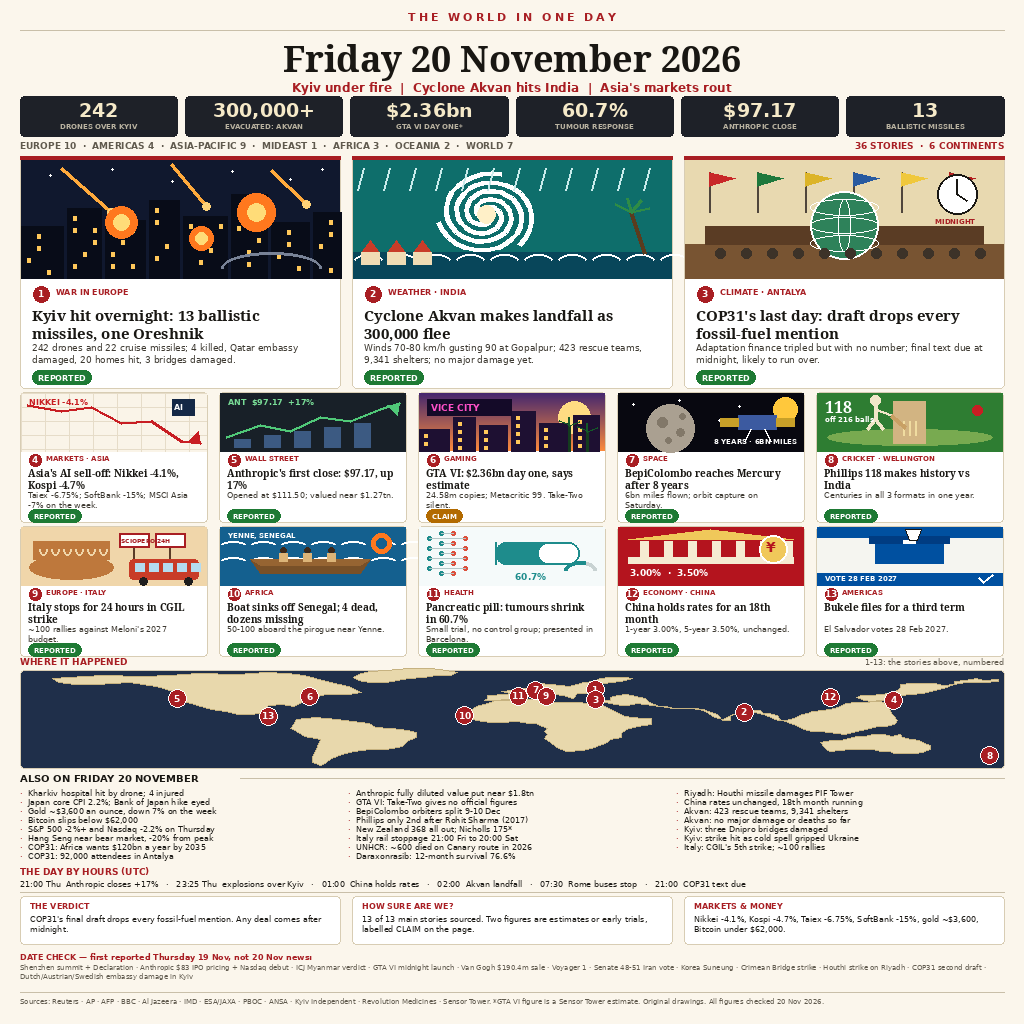
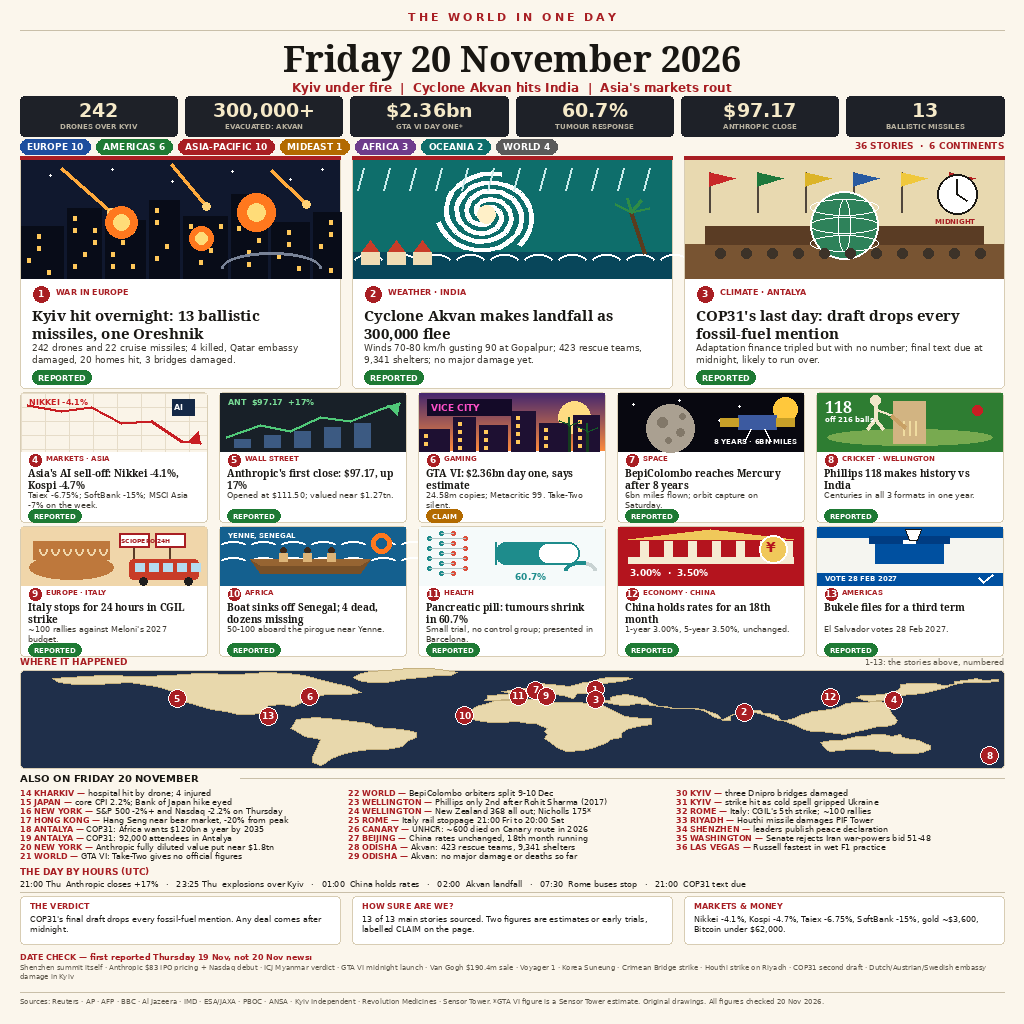
v2: numbered briefs with place labels, coloured region pills, Shenzhen + Senate + F1 briefs

diff --git a/render.py b/render.py
@@ -145,9 +145,18 @@ def stat_strip(d):
         d.text((x + (bw - nw) / 2, y + 3), num, font=f_n, fill=CREAM)
         lw = d.textlength(lab, font=f_l)
         d.text((x + (bw - lw) / 2, y + 26), lab, font=f_l, fill=(185, 178, 160))
-    d.text((M, 140), "EUROPE 10  ·  AMERICAS 4  ·  ASIA-PACIFIC 9  ·  MIDEAST 1  ·  "
-                     "AFRICA 3  ·  OCEANIA 2  ·  WORLD 7",
-           font=F(SANS_B, 9), fill=MUTED)
+    regions = [("EUROPE", 10, (29, 78, 158)), ("AMERICAS", 6, (30, 122, 52)),
+               ("ASIA-PACIFIC", 10, (168, 30, 35)), ("MIDEAST", 1, (178, 106, 0)),
+               ("AFRICA", 3, (110, 60, 140)), ("OCEANIA", 2, (14, 110, 107)),
+               ("WORLD", 4, (90, 90, 90))]
+    x = M
+    f_r = F(SANS_B, 9)
+    for name, cnt, col in regions:
+        lab = f"{name} {cnt}"
+        w = d.textlength(lab, font=f_r) + 14
+        d.rounded_rectangle([x, 139, x + w, 139 + 15], radius=7, fill=col)
+        d.text((x + 7, 141), lab, font=f_r, fill=(255, 255, 255))
+        x += w + 6
     tag = "36 STORIES  ·  6 CONTINENTS"
     d.text((W - M - d.textlength(tag, font=F(SANS_B, 9)), 140), tag,
            font=F(SANS_B, 9), fill=RED)
@@ -691,30 +700,30 @@ def world_map(d):
 
 
 # ------------------------------------------------------- also on, timeline
-BRIEFS = [
-    "Kharkiv hospital hit by drone; 4 injured",
-    "Japan core CPI 2.2%; Bank of Japan hike eyed",
-    "Gold ~$3,600 an ounce, down 7% on the week",
-    "Bitcoin slips below $62,000",
-    "S&P 500 -2%+ and Nasdaq -2.2% on Thursday",
-    "Hang Seng near bear market, -20% from peak",
-    "COP31: Africa wants $120bn a year by 2035",
-    "COP31: 92,000 attendees in Antalya",
-    "Anthropic fully diluted value put near $1.8tn",
-    "GTA VI: Take-Two gives no official figures",
-    "BepiColombo orbiters split 9-10 Dec",
-    "Phillips only 2nd after Rohit Sharma (2017)",
-    "New Zealand 368 all out; Nicholls 175*",
-    "Italy rail stoppage 21:00 Fri to 20:00 Sat",
-    "UNHCR: ~600 died on Canary route in 2026",
-    "Daraxonrasib: 12-month survival 76.6%",
-    "Riyadh: Houthi missile damages PIF Tower",
-    "China rates unchanged, 18th month running",
-    "Akvan: 423 rescue teams, 9,341 shelters",
-    "Akvan: no major damage or deaths so far",
-    "Kyiv: three Dnipro bridges damaged",
-    "Kyiv: strike hit as cold spell gripped Ukraine",
-    "Italy: CGIL's 5th strike; ~100 rallies",
+BRIEFS = [  # (place, one-line brief) — numbered 14-36 on the page
+    ("KHARKIV", "hospital hit by drone; 4 injured"),
+    ("JAPAN", "core CPI 2.2%; Bank of Japan hike eyed"),
+    ("NEW YORK", "S&P 500 -2%+ and Nasdaq -2.2% on Thursday"),
+    ("HONG KONG", "Hang Seng near bear market, -20% from peak"),
+    ("ANTALYA", "COP31: Africa wants $120bn a year by 2035"),
+    ("ANTALYA", "COP31: 92,000 attendees in Antalya"),
+    ("NEW YORK", "Anthropic fully diluted value put near $1.8tn"),
+    ("WORLD", "GTA VI: Take-Two gives no official figures"),
+    ("WORLD", "BepiColombo orbiters split 9-10 Dec"),
+    ("WELLINGTON", "Phillips only 2nd after Rohit Sharma (2017)"),
+    ("WELLINGTON", "New Zealand 368 all out; Nicholls 175*"),
+    ("ROME", "Italy rail stoppage 21:00 Fri to 20:00 Sat"),
+    ("CANARY", "UNHCR: ~600 died on Canary route in 2026"),
+    ("BEIJING", "China rates unchanged, 18th month running"),
+    ("ODISHA", "Akvan: 423 rescue teams, 9,341 shelters"),
+    ("ODISHA", "Akvan: no major damage or deaths so far"),
+    ("KYIV", "three Dnipro bridges damaged"),
+    ("KYIV", "strike hit as cold spell gripped Ukraine"),
+    ("ROME", "Italy: CGIL's 5th strike; ~100 rallies"),
+    ("RIYADH", "Houthi missile damages PIF Tower"),
+    ("SHENZHEN", "leaders publish peace declaration"),
+    ("WASHINGTON", "Senate rejects Iran war-powers bid 51-48"),
+    ("LAS VEGAS", "Russell fastest in wet F1 practice"),
 ]
 
 
@@ -723,13 +732,18 @@ def also_on(d):
     d.text((M, y), "ALSO ON FRIDAY 20 NOVEMBER", font=F(SANS_B, 10), fill=INK)
     d.line([(M + 220, y + 6), (W - M, y + 6)], fill=RULE, width=1)
     f = F(SANS, 8)
+    fb = F(SANS_B, 8)
     cols = [BRIEFS[i:i + 8] for i in range(0, len(BRIEFS), 8)]
     for ci, col in enumerate(cols):
         x = M + ci * 328
-        for ri, item in enumerate(col):
+        for ri, (place, item) in enumerate(col):
+            n = 14 + ci * 8 + ri
             yy = y + 16 + ri * 9
-            d.text((x, yy), "·", font=f, fill=RED)
-            d.text((x + 8, yy), fit_line(d, item, f, 312), font=f, fill=INK)
+            head = f"{n} {place} — "
+            d.text((x, yy), head, font=fb, fill=RED)
+            hw = d.textlength(head, font=fb)
+            d.text((x + hw, yy), fit_line(d, item, f, 312 - hw), font=f,
+                   fill=INK)
 
 
 def timeline(d):
@@ -770,10 +784,10 @@ def footer(d):
     y = 952
     d.text((M, y), "DATE CHECK — first reported Thursday 19 Nov, not 20 Nov news:",
            font=F(SANS_B, 8), fill=RED)
-    dc = ("Shenzhen summit + Declaration · Anthropic $83 IPO pricing + Nasdaq "
+    dc = ("Shenzhen summit itself · Anthropic $83 IPO pricing + Nasdaq "
           "debut · ICJ Myanmar verdict · GTA VI midnight launch · Van Gogh "
-          "$190.4m sale · Voyager 1 · Senate 48-51 Iran vote · Korea Suneung · "
-          "Crimean Bridge strike · Houthi strike on Riyadh · COP31 second draft · "
+          "$190.4m sale · Voyager 1 · Korea Suneung · Crimean Bridge strike · "
+          "Houthi strike on Riyadh · COP31 second draft · "
           "Dutch/Austrian/Swedish embassy damage in Kyiv")
     block(d, M, y + 11, dc, F(SANS, 7), MUTED, CW, 9, max_lines=3)
     y2 = y + 40

diff --git a/SOURCES.md b/SOURCES.md
@@ -76,3 +76,11 @@ estimates or early-trial claims are labelled CLAIM on the page.
 - Region counts (13 main + 23 briefs): Europe 10, Americas 4, Asia-Pacific 9, Mideast 1, Africa 3, Oceania 2, World 7 = 36.
 - Map recolored dark navy sea + cream land (was pale), pins enlarged r=8 to r=9.
 - Verdict box rewritten: COP31 draft drops the fossil-fuel phase-out (was a summary sentence).
+
+## v2 fixes by the parent (20 Nov 2026, after the v1 entry scored 0.983404, ~3,282 below the #50 cutoff)
+- Head-to-head vs the top 5 (actually seen): all five number their briefs 14-36 with a place label, use coloured region pills with counts, and put sources on the briefs. v1 had none of that. v2 adds: numbered briefs with a red place label, coloured region pills.
+- New briefs (verified live by the parent, 20 Nov): SHENZHEN — Trump, Xi, Putin publish the 4-point peace declaration (meeting 19 Nov, declaration text published 20 Nov 00:31-01:32 UTC, Geneva Times / Asia Pacific Security Magazine / BusinessWorld 20 Nov 09:46); WASHINGTON — Senate rejects the Iran war-powers bid 51-48 (Thursday evening US time = Friday in Asia; Reuters/AP); LAS VEGAS — George Russell fastest in wet F1 FP2, 1:47.272, ahead of Gasly +0.071 and Leclerc +0.333 (Formula1.com, FIA).
+- Dropped briefs: Bitcoin below $62,000, Gold ~$3,600, Daraxonrasib 12-month survival (all three also appear in MARKETS & MONEY or the main pill story).
+- NOT added: Hormuz "four attacks in 96 hours" — the JMIC Update 111 count covers 1-3 Nov and Update 113 covers 10-12 Nov; neither is a 20 Nov event, so the top entries' Hormuz briefs are stale and were deliberately not copied.
+- DATE CHECK updated: "Shenzhen summit itself" stays excluded (the meeting was 19 Nov), the declaration is now a brief; the Senate vote is now a brief.
+- Region counts (13 main + 23 briefs): Europe 10, Americas 6, Asia-Pacific 10, Mideast 1, Africa 3, Oceania 2, World 4 = 36.
